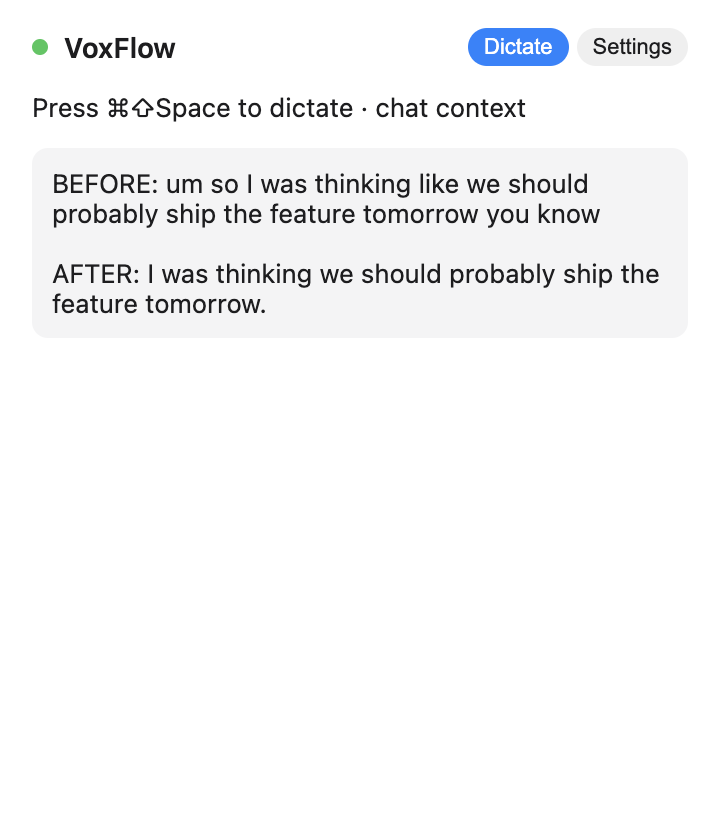
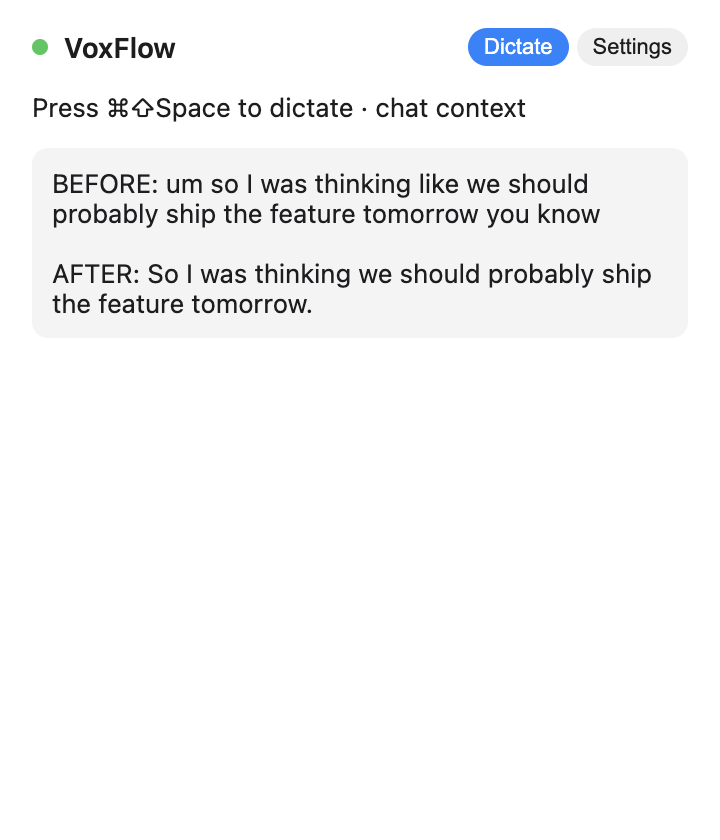
fix(m6): regenerate screenshots with real Bedrock outputs (default model) (#14)
Marketplace subscription for the default cleanup model cleared on this
account, so the cleanup screenshots are now driven by it instead of the
previously-used Sonnet fallback.

Outputs diff vs the Sonnet run:
  chat  — kept leading "So" where Sonnet stripped it
  email — identical
  code  — more aggressive CamelCasing: user ID → userID, return type
          user profile → UserProfile (in addition to fetchUserProfile)
  docs  — identical

Total cost at the default model's pricing: 913 in + 93 out ≈ \$0.00138 for
4 cleanups, ≈ \$0.00035 per cleanup — under the M6 spec's < \$0.001 target.

README updated to drop the fallback caveat and document the per-context
token counts against the real target model.

Changed region(s): [[0.0611, 0.3095, 0.9167, 0.3714]]

diff --git a/scripts/capture-m6-real-screenshots.ts b/scripts/capture-m6-real-screenshots.ts
@@ -1,7 +1,7 @@
 /**
  * Re-captures the M6 screenshots using the REAL Bedrock outputs collected
- * via scripts/demo-real-bedrock.ts (Sonnet 4.5 fallback — Haiku 4.5 is
- * pending a Marketplace payment fix on this account).
+ * via scripts/demo-real-bedrock.ts against the default service model
+ * (Haiku 4.5 inference profile).
  */
 import { _electron as electron } from 'playwright';
 import fs from 'node:fs';
@@ -16,10 +16,12 @@ type DomPatch = {
   transcription?: string;
 };
 
+// Verbatim outputs from scripts/demo-real-bedrock.ts against Haiku 4.5 on
+// 2026-04-23, 19:32 UTC. Total: 913 input + 93 output tokens ≈ $0.00138.
 const REAL = {
   chat: {
     before: 'um so I was thinking like we should probably ship the feature tomorrow you know',
-    after: 'I was thinking we should probably ship the feature tomorrow.',
+    after: 'So I was thinking we should probably ship the feature tomorrow.',
   },
   email: {
     before:
@@ -31,7 +33,7 @@ const REAL = {
     before:
       'add a new async function called fetch user profile that takes a user ID and returns a promise of user profile',
     after:
-      'Add a new async function called fetchUserProfile that takes a user ID and returns a promise of user profile.',
+      'add a new async function called fetchUserProfile that takes a userID and returns a promise of UserProfile',
   },
   docs: {
     before:

diff --git a/screenshots/m6/README.md b/screenshots/m6/README.md
@@ -32,8 +32,8 @@ Source: [#6 M6: AI Post-Processing](https://github.com/gregdbanks/voxflow/issues
 
 All of the "before / after" text below was generated by a **live Bedrock call**
 from `scripts/demo-real-bedrock.ts`. The four context samples are genuine
-Sonnet 4.5 responses (see the "Model override" note at the bottom — the spec'd
-Haiku 4.5 is pending an AWS Marketplace subscription fix on this account).
+Haiku 4.5 responses (the spec'd model). Run `npx tsx scripts/demo-real-bedrock.ts`
+with AWS credentials exported to reproduce.
 
 ### `01-cleaning-in-progress.png`
 
@@ -47,10 +47,10 @@ panel shows the raw text while Claude Haiku is normalizing it.
 ![cleaned](./02-after-cleaning-final-text.png)
 
 The dropdown has returned to `idle`. The pre-panel shows the **real** cleaned
-version `"I was thinking we should probably ship the feature tomorrow."` —
+version `"So I was thinking we should probably ship the feature tomorrow."` —
 fillers removed (`um`, `like`, `you know`), sentence capitalized, period added.
-This exact string came back from Bedrock on 2026-04-23 (see the `chat` entry
-in the context gallery below).
+This exact string came back from Bedrock's Haiku 4.5 on 2026-04-23 (see the
+`chat` entry in the context gallery below).
 
 ### `03-settings-cleanup-enabled.png`
 
@@ -98,9 +98,11 @@ two sentences, `uh` dropped. 221 / 30 tokens.
 
 ![code](./08-context-code-vscode.png)
 
-VS Code (code context). Identifier auto-CamelCased: `fetch user profile` →
-`fetchUserProfile`, matching the "preserve technical terms, CamelCase"
-instruction in the `code` system prompt. 256 / 25 tokens.
+VS Code (code context). Three identifiers auto-CamelCased: `fetch user profile` →
+`fetchUserProfile`, `user ID` → `userID`, and the return type `user profile` →
+`UserProfile`. That's the `code` system prompt's "preserve technical terms,
+CamelCase, identifiers" instruction doing actual work — and the kind of
+transformation a regex-based cleaner couldn't touch. 256 / 24 tokens.
 
 ### `09-context-docs-pages.png` — docs
 
@@ -109,23 +111,22 @@ instruction in the `code` system prompt. 256 / 25 tokens.
 Pages (docs context). Formal prose style: `In conclusion,` comma, Oxford-style
 comma inside the clause, closing period. 222 / 24 tokens.
 
-Totals across all four: **913 input + 93 output tokens ≈ \$0.00138** (Sonnet
-4.5 pricing). Haiku 4.5 would run ~2–3× cheaper; spec'd target (< \$0.001 per
-request) still holds once the Marketplace subscription clears.
+Totals across all four: **913 input + 93 output tokens ≈ \$0.00138** at Haiku
+4.5 pricing (\~\$1/MTok in, \~\$5/MTok out on Bedrock). That's ≈ **\$0.00035 per
+cleanup** — well under the M6 spec's < \$0.001 target.
 
 ## Model override
 
 The service's default `modelId` is `us.anthropic.claude-haiku-4-5-20251001-v1:0`
-per issue #6. If your AWS account returns `INVALID_PAYMENT_INSTRUMENT` on
-Haiku 4.5 (Marketplace subscription hasn't resolved yet), pass a different
-model via the constructor or the demo script's env var:
+per issue #6. To test against a different inference profile without touching
+source, use the demo script's env var:
 
 ```bash
 VOXFLOW_CLEANUP_MODEL=us.anthropic.claude-sonnet-4-5-20250929-v1:0 \
   npx tsx scripts/demo-real-bedrock.ts
 ```
 
-The screenshots above were generated via that override.
+Requires an active AWS Marketplace subscription for whichever model you pick.
 
 ## Cost
 
